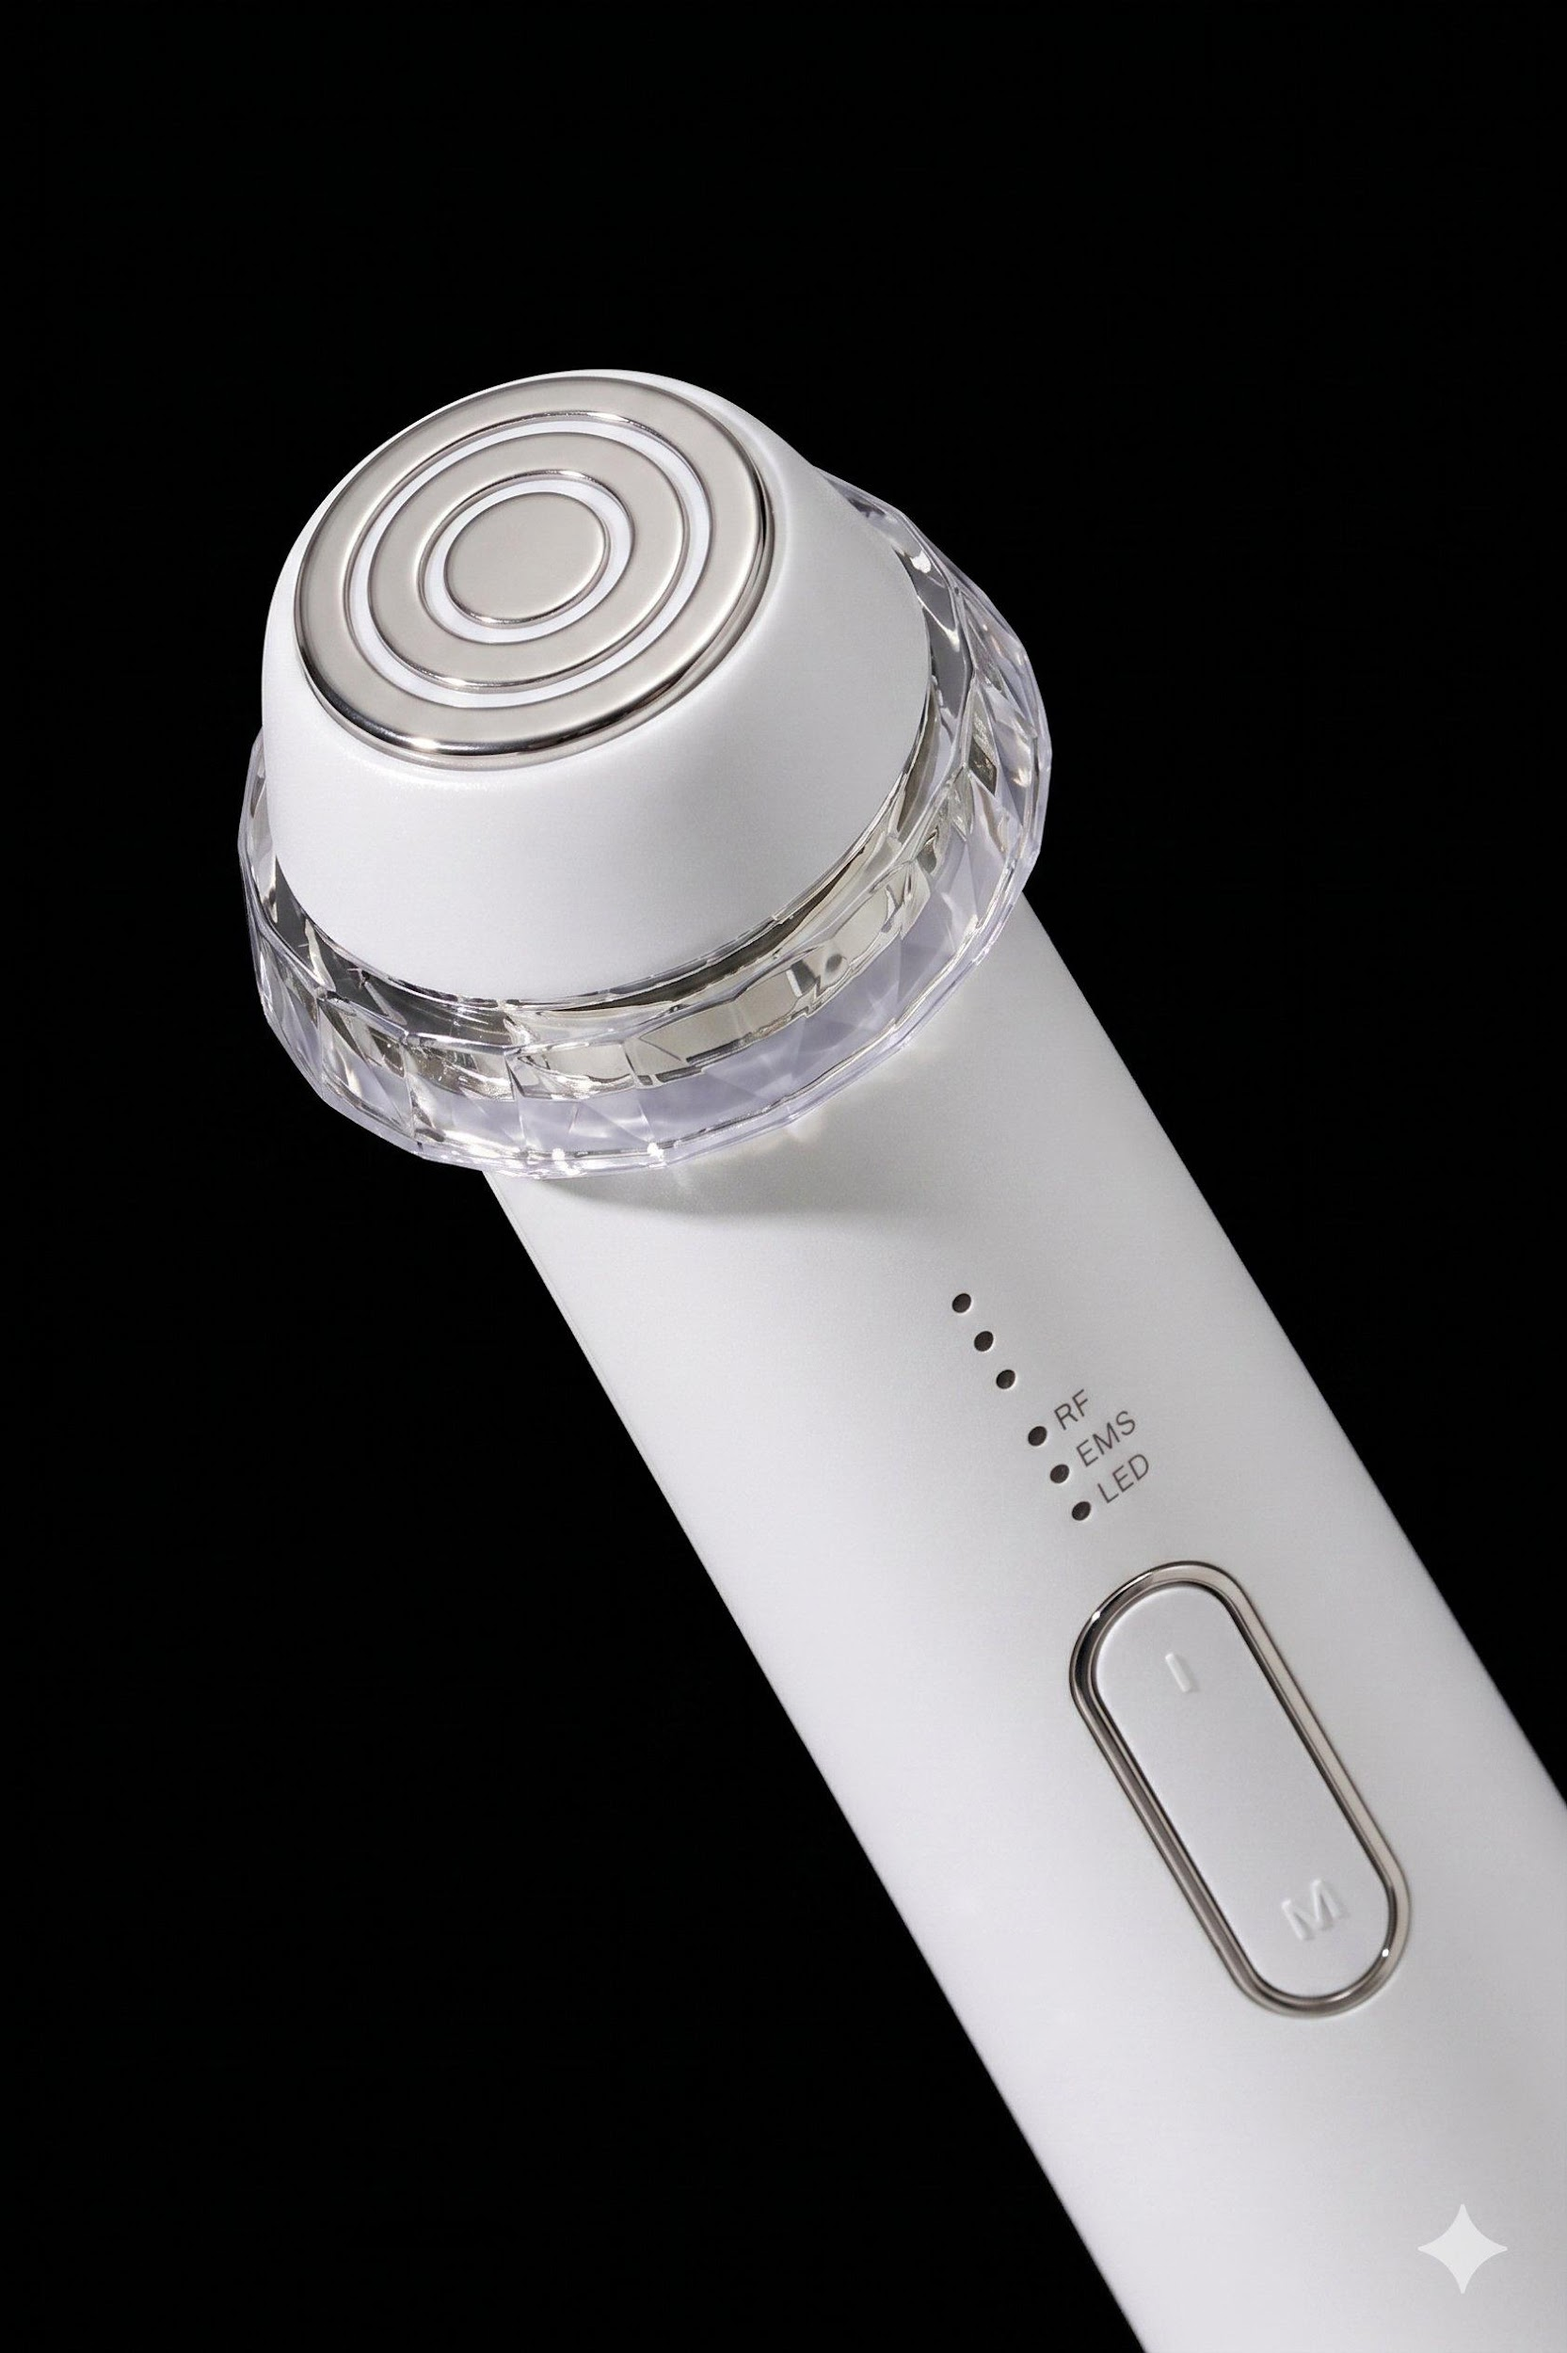
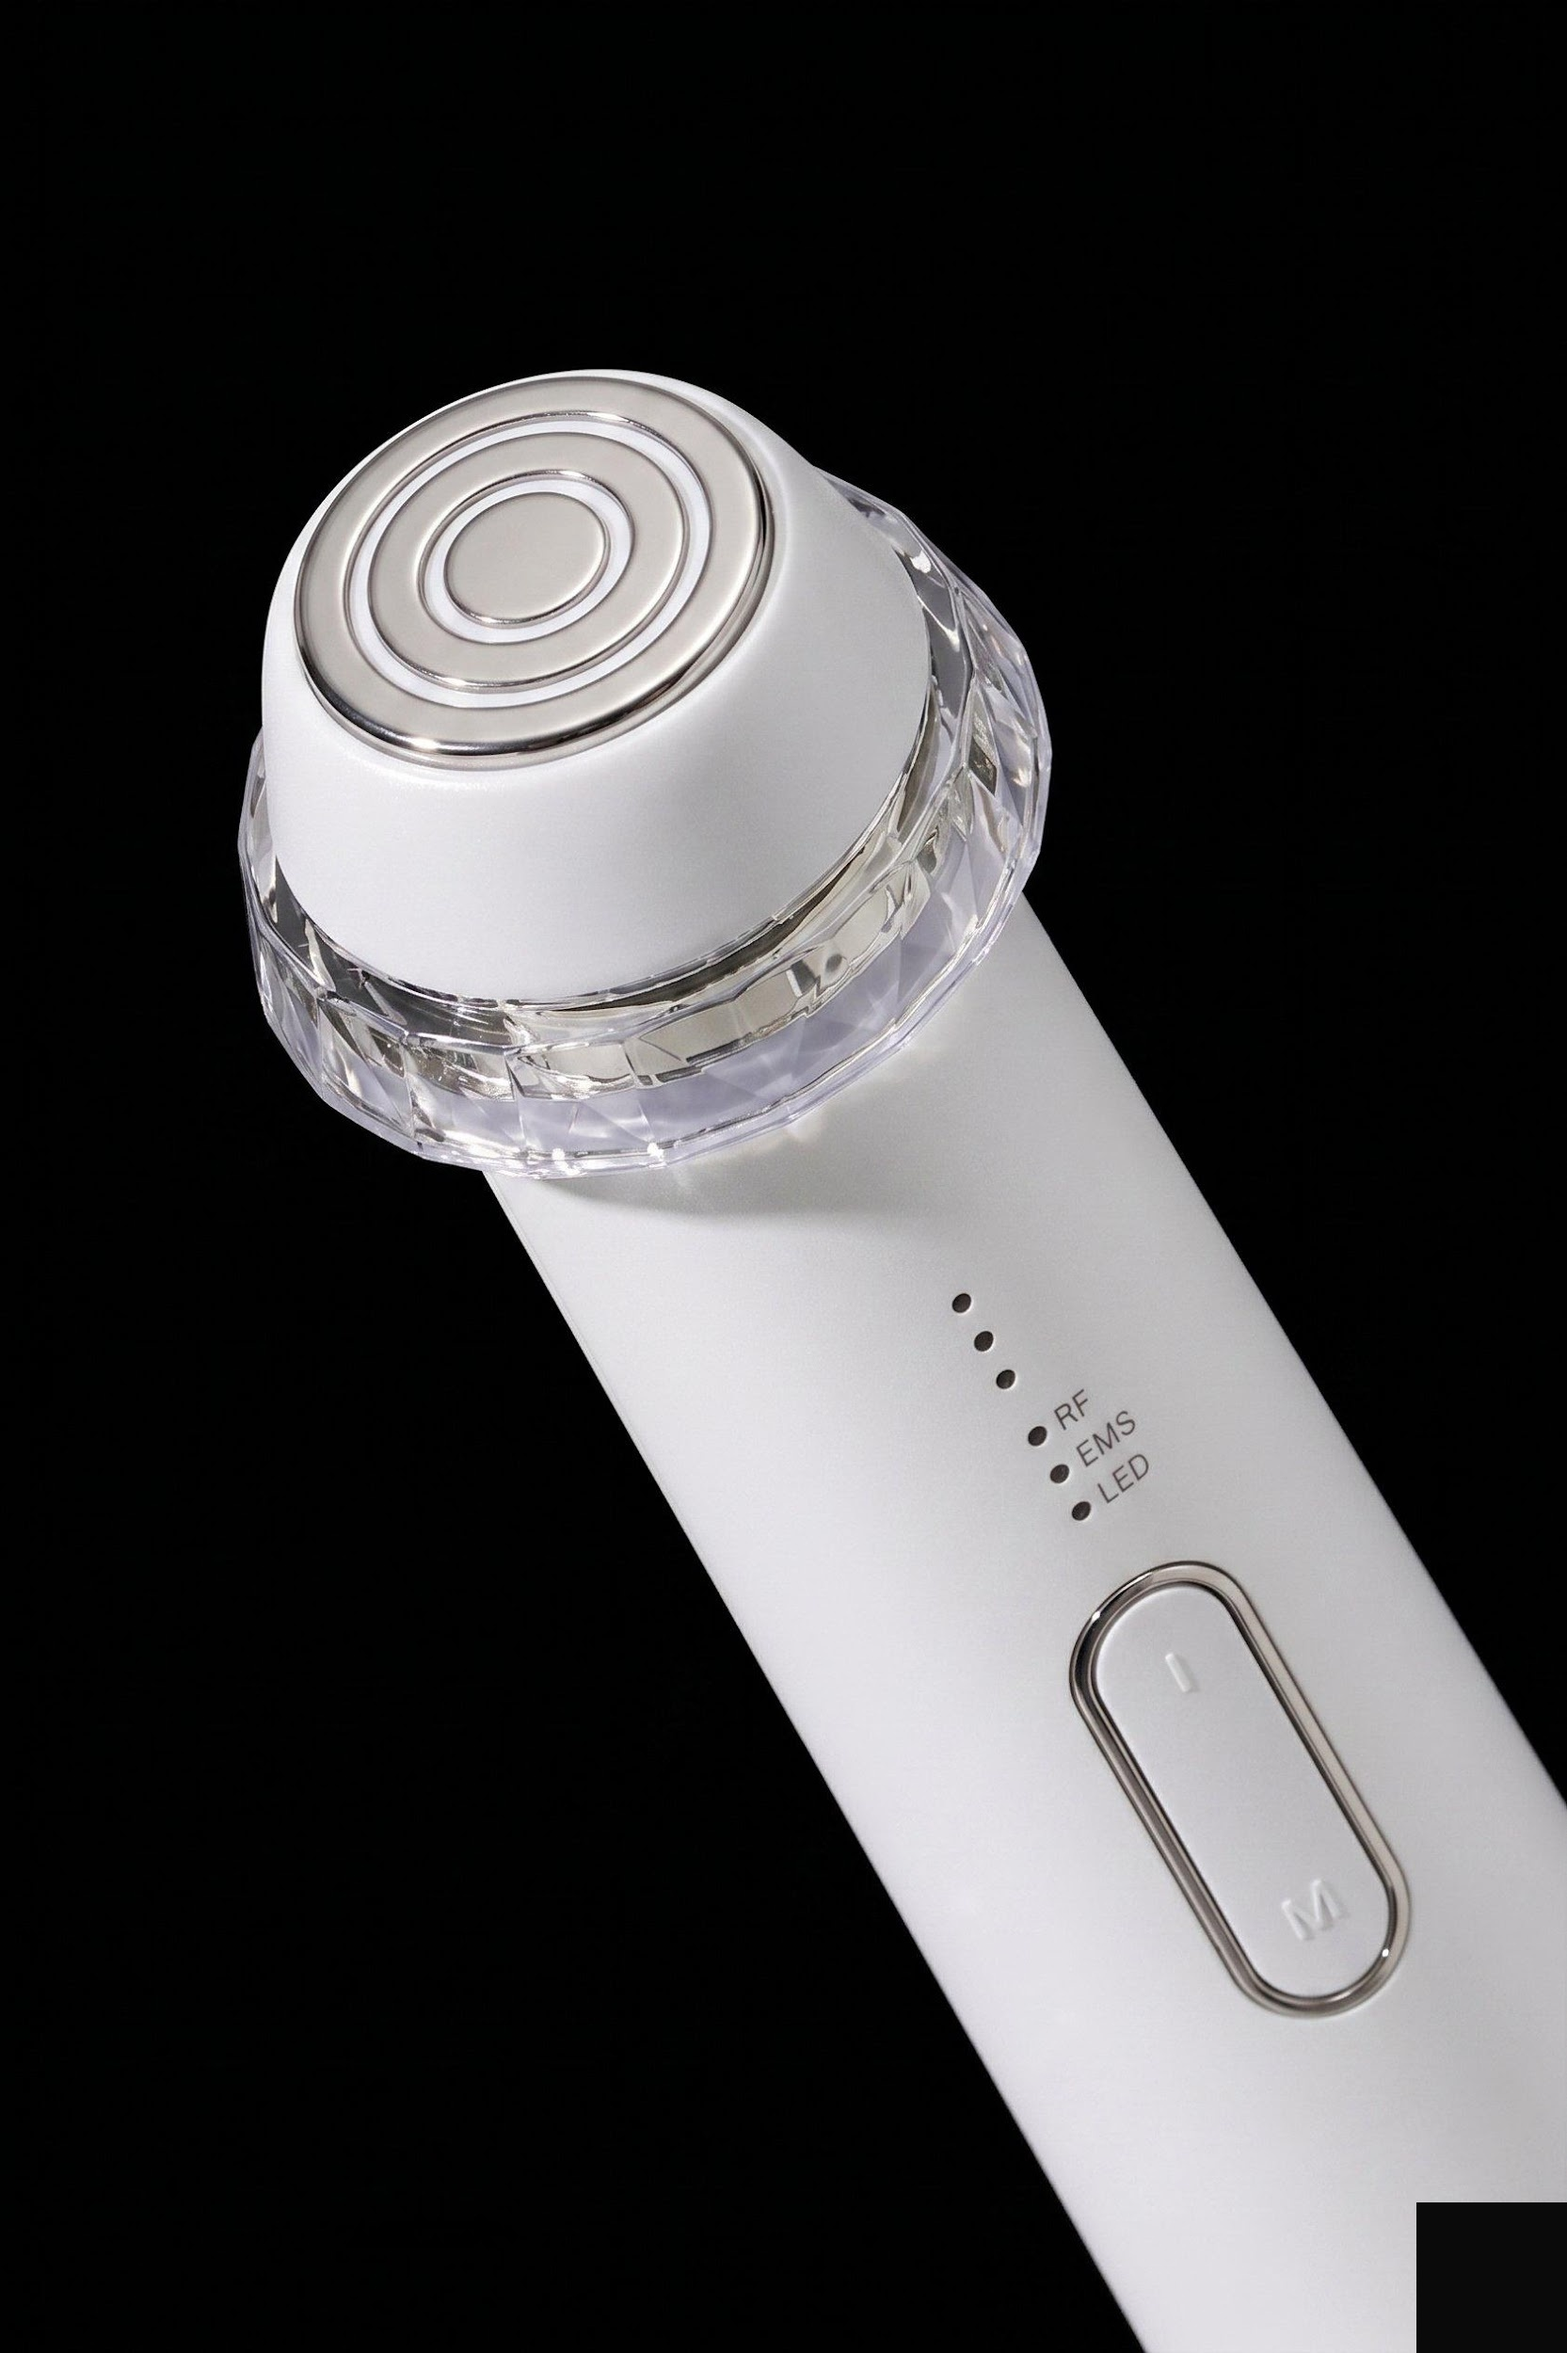
Move markers 2-3 left to avoid LED area + remove Gemini watermark from image

Changed region(s): [[0.9057, 0.936, 1.0, 1.0]]

diff --git a/user-manual.html b/user-manual.html
@@ -181,8 +181,8 @@
     box-shadow: 0 2px 8px rgba(0,0,0,0.4);
   }
   .marker-1 { top: 23.2%; left: 34.2%; }
-  .marker-2 { top: 58.0%; left: 60.0%; }
-  .marker-3 { top: 64.0%; left: 65.0%; }
+  .marker-2 { top: 58.0%; left: 55.5%; }
+  .marker-3 { top: 64.0%; left: 60.5%; }
   .marker-4 { top: 71.5%; left: 82.0%; }
   .marker-5 { top: 82.5%; left: 90.5%; }
   .parts-right {
